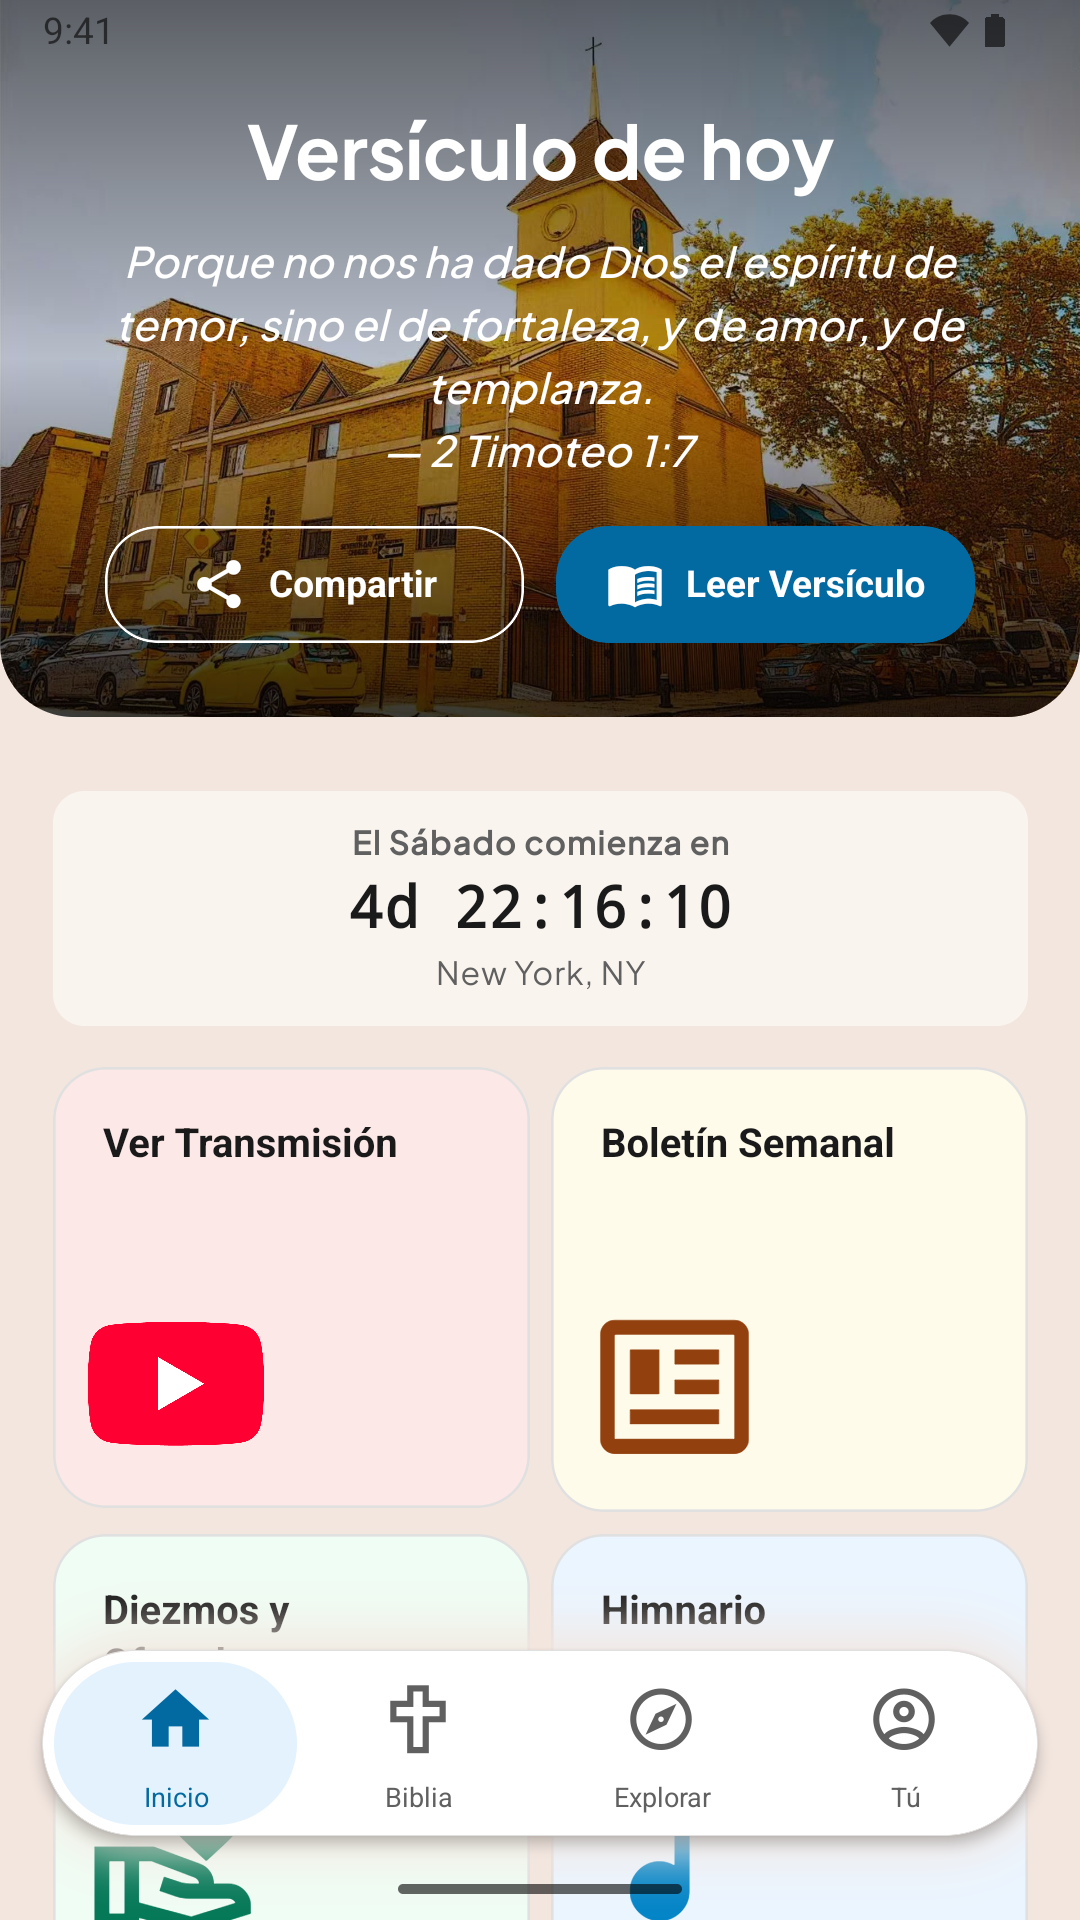
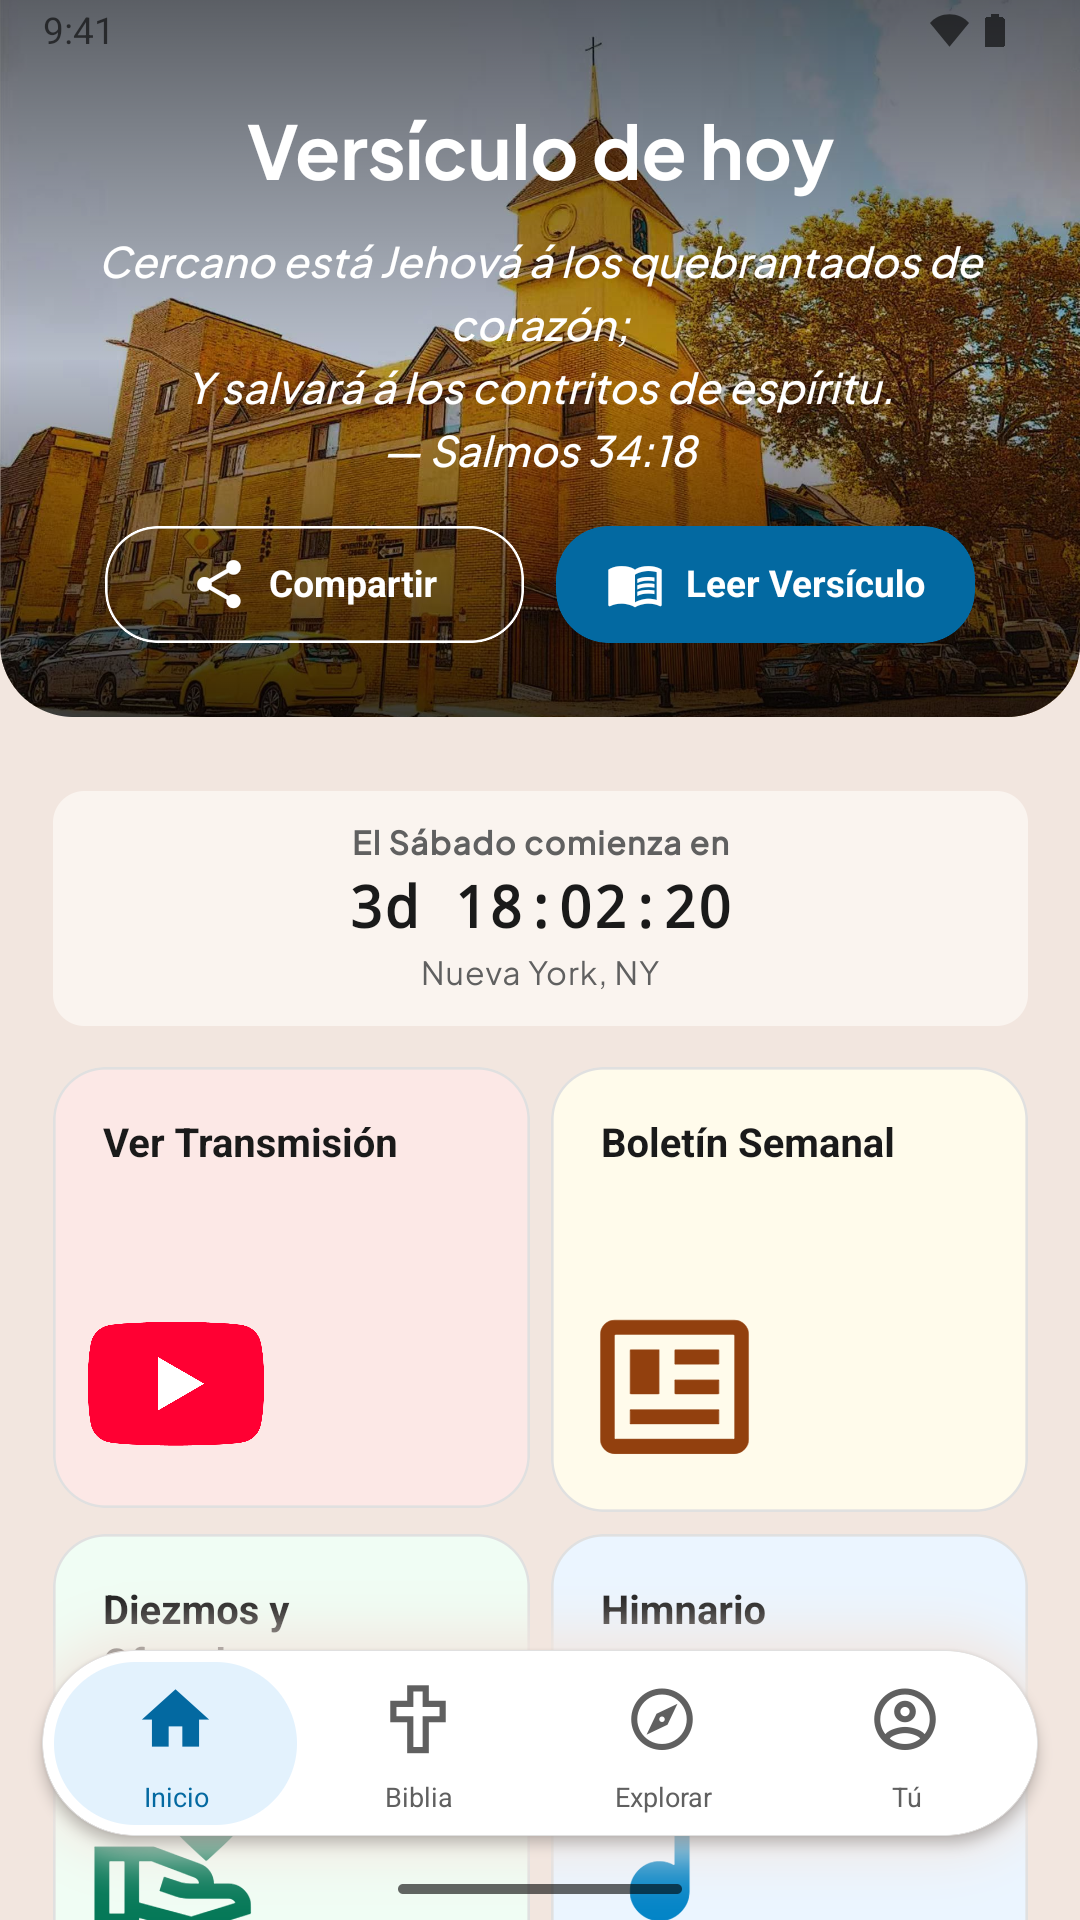
Name the Sabbath countdown's place in Spanish (Nueva York, NY), and set the version to 1.8.0 (#732)
Closes #729
Related to #730

## What changed

**Home's Sabbath countdown names its place in Spanish: "Nueva York,
NY".** The countdown shows its place on the line under the timer, taken
from Home's labels (`locationDefault` in `app/(tabs)/index.tsx`).
Traditional and Simplified already said 紐約 and 纽约, but Spanish copied
English's "New York, NY".

| App language | Place under the timer |
| :--- | :--- |
| English | New York, NY (unchanged) |
| Traditional Chinese | 紐約 (unchanged) |
| Simplified Chinese | 纽约 (unchanged) |
| Spanish | **Nueva York, NY** (was New York, NY) |

- The Chinese is how the app already writes the city everywhere else,
such as About My Church and the Sunrise/Sunset theme. The Spanish is the
user's own example, and matches the theme's "Nueva York".
- The label stays one of Home's ordinary labels, with no check for any
one language. A new language names the place when its labels are added,
like every other string. The three copies of an old comment about
dropping device location became one line that says what the label is.
- The sunset times and the countdown are unchanged, since the
coordinates are the same.

Where the city shows in the app:
- **Home's countdown:** now Spanish too.
- **The Sunrise/Sunset theme's description**
(`components/ThemeDialog.tsx`): already in each language ("in New York",
紐約, 纽约, "Nueva York").
- Nothing else. The Sabbath Calendar is the planning spreadsheet's tab,
not an app screen.
[…]

diff --git a/app/(tabs)/index.tsx b/app/(tabs)/index.tsx
@@ -90,8 +90,9 @@ export default function HomeScreen() {
       hymnal: 'Hymnal',
       sabbathStarts: 'Sabbath starts in',
       isSabbath: 'Happy Sabbath!',
-      // decided to remove the dynamic location since most people don't like to give away location
-      // instead, each congregation shuold adjust the code to use their own location coordinates
+      // The place the countdown is for, the church's (CHURCH_LATITUDE and
+      // CHURCH_LONGITUDE), named in each language like every other label, so a
+      // new language names it in its own words.
       locationDefault: 'New York, NY',
     },
     zh: {
@@ -107,8 +108,6 @@ export default function HomeScreen() {
       hymnal: '詩歌本',
       sabbathStarts: '距離安息日還有',
       isSabbath: '安息日快樂！',
-      // decided to remove the dynamic location since most people don't like to give away location
-      // instead, each congregation shuold adjust the code to use their own location coordinates
       locationDefault: '紐約',
     },
     'zh-cn': {
@@ -139,9 +138,7 @@ export default function HomeScreen() {
       hymnal: 'Himnario',
       sabbathStarts: 'El Sábado comienza en',
       isSabbath: '¡Feliz Sábado!',
-      // decided to remove the dynamic location since most people don't like to give away location
-      // instead, each congregation shuold adjust the code to use their own location coordinates
-      locationDefault: 'New York, NY',
+      locationDefault: 'Nueva York, NY',
     },
   };
 

diff --git a/test/home-hero-actions.test.ts b/test/home-hero-actions.test.ts
@@ -84,4 +84,10 @@ describe("the Sabbath countdown's card (#593)", () => {
       expect(home).toContain(label);
     }
   });
+
+  it("names its place in each language's own words, Spanish's too (#729)", () => {
+    // One per language, in Home's labels: a new language adds its own here.
+    const places = [...home.matchAll(/locationDefault: '([^']*)'/g)].map((match) => match[1]);
+    expect(places).toEqual(['New York, NY', '紐約', '纽约', 'Nueva York, NY']);
+  });
 });

diff --git a/public/sw.js b/public/sw.js
@@ -2,7 +2,7 @@
 // which sets it together with package.json and app.json. CI checks that they match.
 // It controls the web app's pop-up telling users a new version is available.
 // Don't edit it by hand.
-const VERSION = '1.7.2';
+const VERSION = '1.8.0';
 const CACHE_NAME = `sda-church-v${VERSION}`;
 
 self.addEventListener('install', (event) => {});

diff --git a/docs/store-assets/README.md b/docs/store-assets/README.md
@@ -127,6 +127,10 @@ Spanish's sets are from one-off runs (#692):
   App Store iPhone set, and the iPad's other four. The iPad's You came from the earlier
   run because the later one's iPad timed out on it. The header was built from that
   iPhone set, and the feature graphic from the Play phone set.
+- From November 9, on the branch that named the countdown's place in Spanish, "Nueva
+  York, NY" (#729), at a5d7dc74: the Google Play phone and tablet Home shots
+  ([run](https://github.com/CodeSammich/sda-church-app/actions/runs/42747646177), on a
+  fork, where every batch passed).
 
 None of the unreleased changes shows: Spanish's phone shots from the later runs match the
 earlier ones but for a pixel's shift in the tab bar's pill, and the day's verse on Home.
